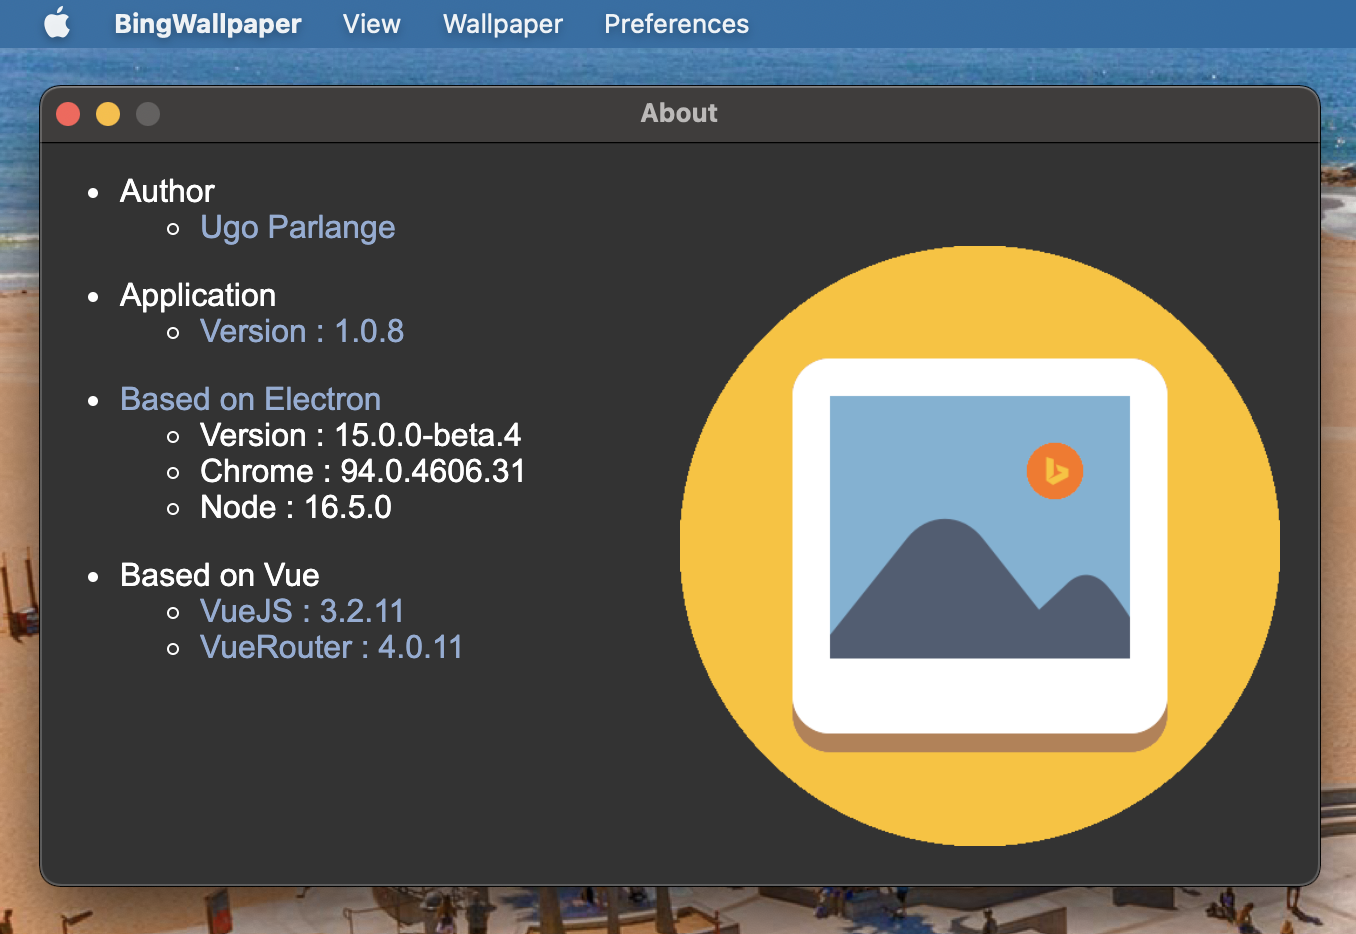
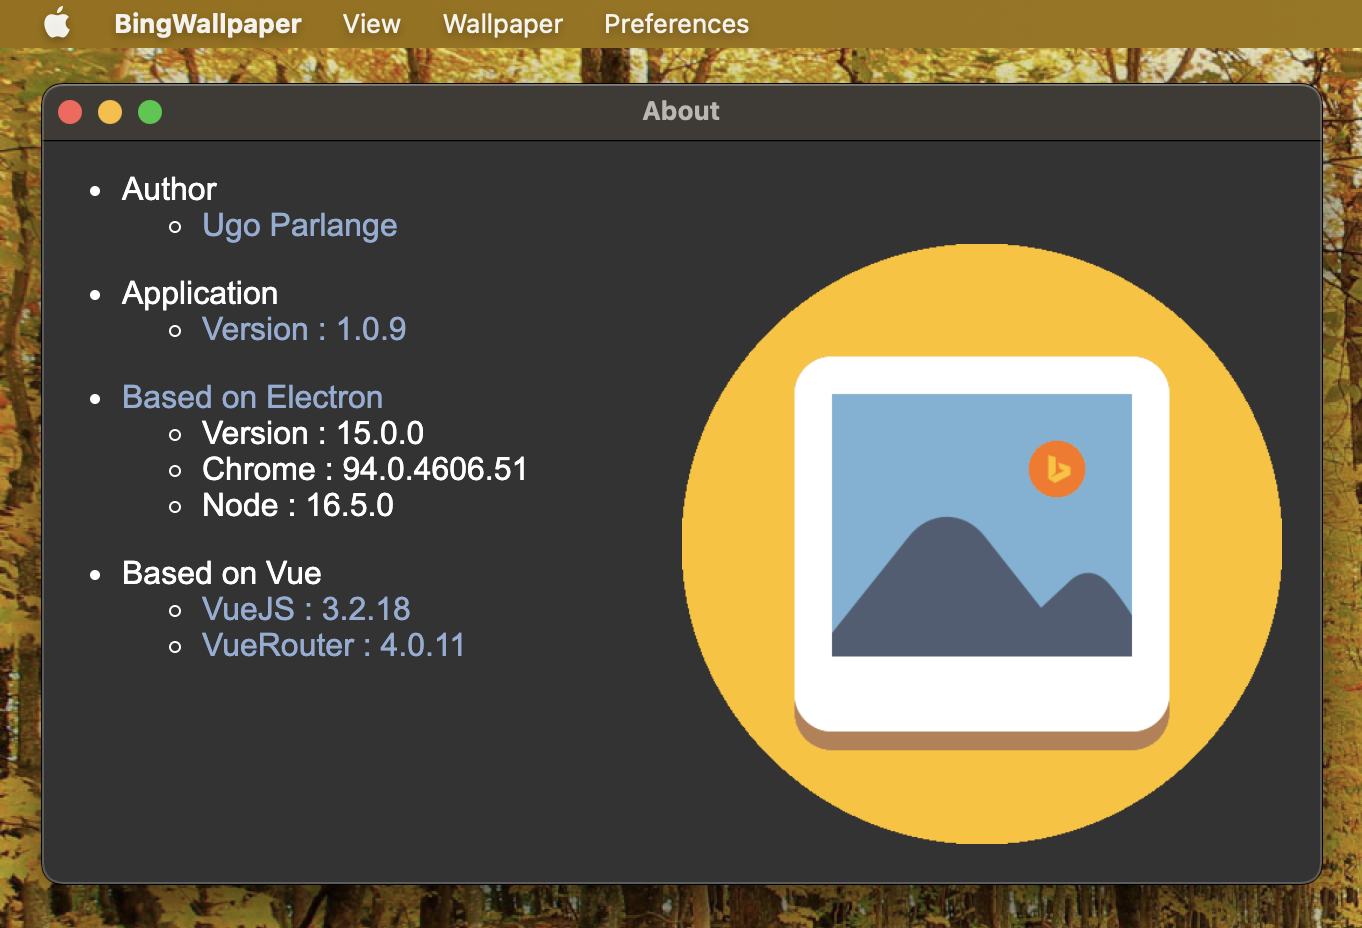
Release 1.0.9

diff --git a/README.md b/README.md
@@ -7,24 +7,26 @@
     * [Hello  Madam](https://www.bonjourmadame.fr/)
 * Custom user wallpaper can by set by drag and dropping an image to the application wallpaper screen
 * Multi-language support (French, English, Spanish) with auto-detection and fallback to English 
-* User preferences support (last displayed view, language)
-* Launch support (launch at startup, launch minimized)
+* User preferences support (last displayed view, language, theme)
+* Auto launch support (launch at startup, launch minimized)
 * Tray icon support
 * Online / Offline support
 * Auto update support
 * Dark mode support
-* Touchbar support
+* Touchbar support (MacBook Pro)
 
 # Downloads
 
-* [MacOS (M1) : BingWallpaper-1.0.8-arm64.dmg](https://github.com/uparlange/bing-wallpaper/releases/download/v1.0.8/BingWallpaper-1.0.8-arm64.dmg)
-* [Windows (x64) : BingWallpaper-1.0.8-x64.exe](https://github.com/uparlange/bing-wallpaper/releases/download/v1.0.8/BingWallpaper-1.0.8-x64.exe)
+* [MacOS (M1) : BingWallpaper-1.0.9-arm64.dmg](https://github.com/uparlange/bing-wallpaper/releases/download/v1.0.9/BingWallpaper-1.0.9-arm64.dmg)
+* [Windows (x64) : BingWallpaper-1.0.9-x64.exe](https://github.com/uparlange/bing-wallpaper/releases/download/v1.0.9/BingWallpaper-1.0.9-x64.exe)
 * Linux : Todo, maybe ....
 
 # Screenshots
 
 ![Wallpaper screenshot](https://github.com/uparlange/bing-wallpaper/blob/master/resources/screenshots/wallpaper-screen.png?raw=true)
 
-![About screenshot](https://github.com/uparlange/bing-wallpaper/blob/master/resources/screenshots/about-screen.png?raw=true)
-
 ![Sources screenshot](https://github.com/uparlange/bing-wallpaper/blob/master/resources/screenshots/sources-screen.png?raw=true)
+
+![History screenshot](https://github.com/uparlange/bing-wallpaper/blob/master/resources/screenshots/history-screen.png?raw=true)
+
+![About screenshot](https://github.com/uparlange/bing-wallpaper/blob/master/resources/screenshots/about-screen.png?raw=true)
